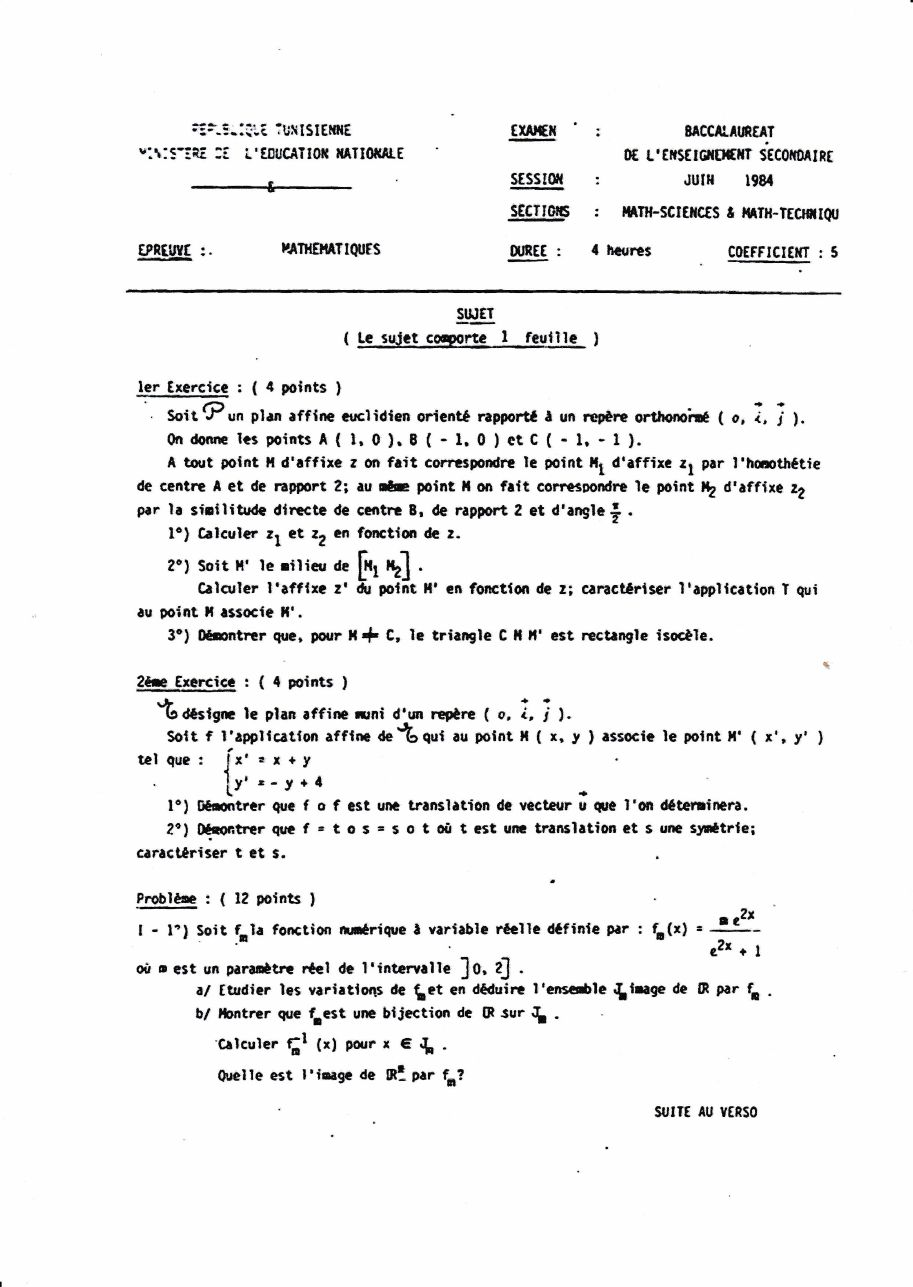
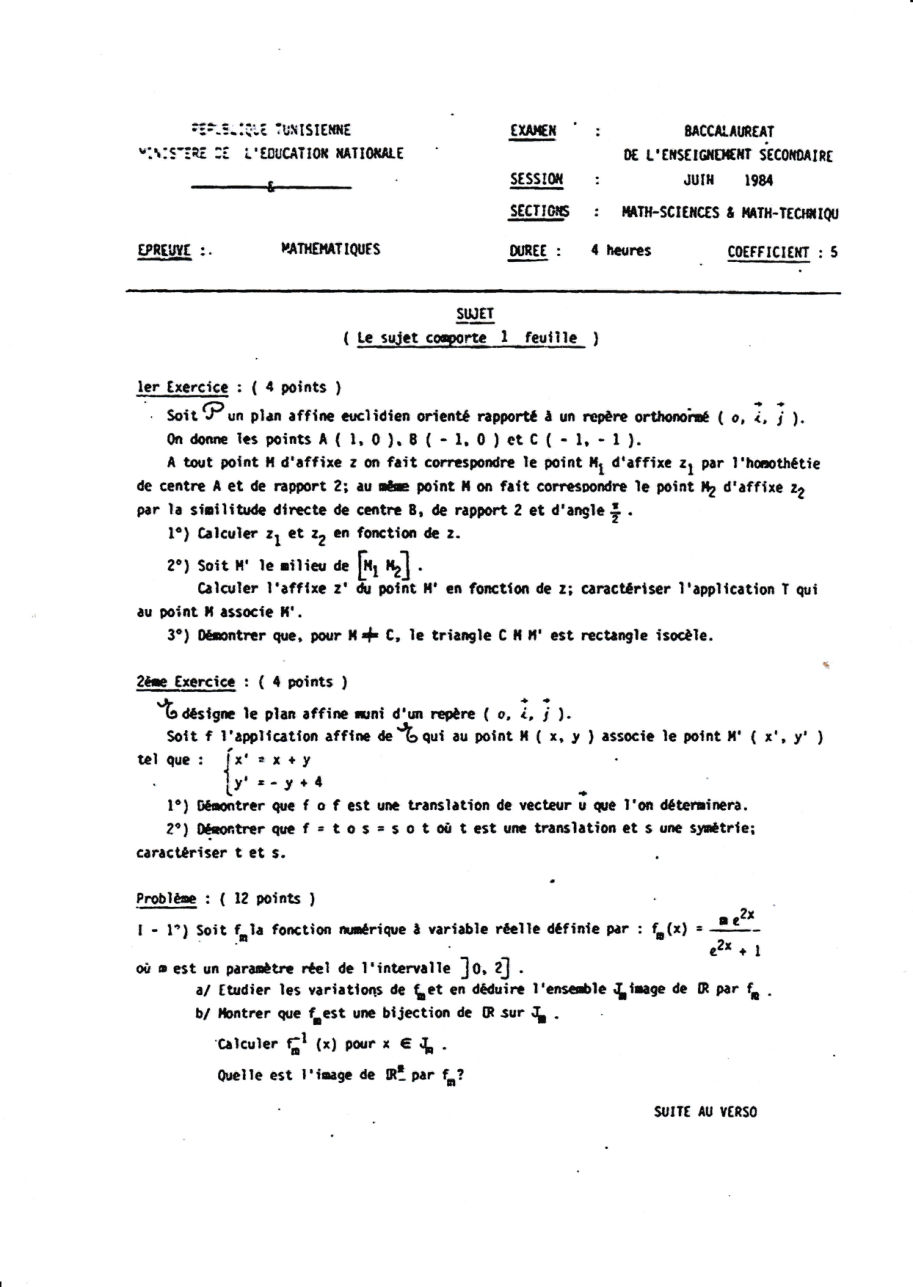
Bac: PDF preview under the download button; equal-height level/section cards
- scripts/bac_scans.py also renders axiomath.pdf to axiomath-N.png
  (re-run after recompiling); the PDF tab shows them as a preview
- Level, section and college cards fill their grid cell, counts pinned at
  the bottom, so cards in a row have the same height

Claude-Session: https://claude.ai/code/session_01MEpqFnBaPc9QdLJ8eM9S5x

diff --git a/src/app/lycee/[level]/page.tsx b/src/app/lycee/[level]/page.tsx
@@ -138,13 +138,13 @@ export default async function LyceeLevelPage({
               <Link
                 key={section}
                 href={`/lycee/${level}/${sectionSlug}`}
-                className="group relative overflow-hidden"
+                className="group relative overflow-hidden block h-full"
               >
                 {/* Gradient background on hover */}
                 <div className="absolute inset-0 bg-gradient-to-br from-accent-500/10 to-primary-500/10 dark:from-accent-500/20 dark:to-primary-500/20 opacity-0 group-hover:opacity-100 transition-opacity duration-300"></div>
                 
                 {/* Card content */}
-                <div className="relative p-8 border-2 border-gray-300 dark:border-gray-700 rounded-lg group-hover:border-accent-500 dark:group-hover:border-primary-500 group-hover:shadow-xl transition-all bg-white dark:bg-gray-800">
+                <div className="relative h-full flex flex-col [&>*:last-child]:mt-auto p-8 border-2 border-gray-300 dark:border-gray-700 rounded-lg group-hover:border-accent-500 dark:group-hover:border-primary-500 group-hover:shadow-xl transition-all bg-white dark:bg-gray-800">
                   {/* Top accent line */}
                   <div className="absolute top-0 left-0 right-0 h-1 bg-gradient-to-r from-accent-500 to-primary-500 opacity-0 group-hover:opacity-100 transition-opacity"></div>
                   
@@ -195,13 +195,13 @@ export default async function LyceeLevelPage({
               <Link
                 key={chapter}
                 href={`/lycee/${level}/toutes-sections/${chapterSlug}`}
-                className="group relative overflow-hidden"
+                className="group relative overflow-hidden block h-full"
               >
                 {/* Gradient background on hover */}
                 <div className="absolute inset-0 bg-gradient-to-br from-accent-500/10 to-primary-500/10 dark:from-accent-500/20 dark:to-primary-500/20 opacity-0 group-hover:opacity-100 transition-opacity duration-300"></div>
                 
                 {/* Card content */}
-                <div className="relative p-6 border-2 border-gray-300 dark:border-gray-700 rounded-lg group-hover:border-accent-500 dark:group-hover:border-primary-500 group-hover:shadow-xl transition-all bg-white dark:bg-gray-800">
+                <div className="relative h-full flex flex-col [&>*:last-child]:mt-auto p-6 border-2 border-gray-300 dark:border-gray-700 rounded-lg group-hover:border-accent-500 dark:group-hover:border-primary-500 group-hover:shadow-xl transition-all bg-white dark:bg-gray-800">
                   {/* Top accent line */}
                   <div className="absolute top-0 left-0 right-0 h-1 bg-gradient-to-r from-accent-500 to-primary-500 opacity-0 group-hover:opacity-100 transition-opacity"></div>
                   

diff --git a/src/lib/bac.ts b/src/lib/bac.ts
@@ -70,6 +70,7 @@ export interface BacPaper {
   blocks: BacTexBlock[];     // exercises and problem parts, read from sujet.tex
   notes?: string;
   scans: string[];           // original-1.jpg, original-2.jpg, … (pages of the original)
+  previews: string[];        // axiomath-1.png, … (pages of the AxioMath PDF, for the preview)
   files: { axiomath?: string; original?: string; tex?: string; corrige?: string };
 }
 
@@ -90,11 +91,14 @@ export function getBacPapers(): BacPaper[] {
       ? ((yaml.load(fs.readFileSync(path.join(dir, 'sujet.yaml'), 'utf8')) as Record<string, any>) ?? {})
       : {};
     const file = (name: string) => (fs.existsSync(path.join(dir, name)) ? `/bac/${id}/${name}` : undefined);
-    const scans = fs
-      .readdirSync(dir)
-      .filter(f => /^original-\d+\.(jpe?g|png|webp)$/.test(f))
-      .sort((a, b) => Number(/\d+/.exec(a)![0]) - Number(/\d+/.exec(b)![0]))
-      .map(f => `/bac/${id}/${f}`);
+    const pages = (prefix: string) =>
+      fs
+        .readdirSync(dir)
+        .filter(f => new RegExp(`^${prefix}-\\d+\\.(jpe?g|png|webp)$`).test(f))
+        .sort((a, b) => Number(/\d+/.exec(a)![0]) - Number(/\d+/.exec(b)![0]))
+        .map(f => `/bac/${id}/${f}`);
+    const scans = pages('original');
+    const previews = pages('axiomath');
     papers.push({
       id,
       year: meta.annee,
@@ -109,6 +113,7 @@ export function getBacPapers(): BacPaper[] {
       blocks,
       notes: extra.notes,
       scans,
+      previews,
       files: { axiomath: file('axiomath.pdf'), original: file('original.pdf'), tex: file('sujet.tex'), corrige: file('corrige.pdf') },
     });
   }

diff --git a/src/app/college/[level]/page.tsx b/src/app/college/[level]/page.tsx
@@ -102,13 +102,13 @@ export default async function CollegeLevelPage({
               <Link
                 key={chapter}
                 href={`/college/${level}/${chapterSlug}`}
-                className="group relative overflow-hidden"
+                className="group relative overflow-hidden block h-full"
               >
                 {/* Gradient background on hover */}
                 <div className="absolute inset-0 bg-gradient-to-br from-accent-500/10 to-primary-500/10 dark:from-accent-500/20 dark:to-primary-500/20 opacity-0 group-hover:opacity-100 transition-opacity duration-300"></div>
                 
                 {/* Card content */}
-                <div className="relative p-6 border-2 border-gray-300 dark:border-gray-700 rounded-lg group-hover:border-accent-500 dark:group-hover:border-primary-500 group-hover:shadow-xl transition-all bg-white dark:bg-gray-800">
+                <div className="relative h-full flex flex-col [&>*:last-child]:mt-auto p-6 border-2 border-gray-300 dark:border-gray-700 rounded-lg group-hover:border-accent-500 dark:group-hover:border-primary-500 group-hover:shadow-xl transition-all bg-white dark:bg-gray-800">
                   {/* Top accent line */}
                   <div className="absolute top-0 left-0 right-0 h-1 bg-gradient-to-r from-accent-500 to-primary-500 opacity-0 group-hover:opacity-100 transition-opacity"></div>
                   

diff --git a/src/app/college/page.tsx b/src/app/college/page.tsx
@@ -50,13 +50,13 @@ export default async function CollegePage() {
           <Link
             key={level}
             href={`/college/${level}`}
-            className="group relative overflow-hidden"
+            className="group relative overflow-hidden block h-full"
           >
             {/* Gradient background on hover */}
             <div className="absolute inset-0 bg-gradient-to-br from-accent-500/10 to-primary-500/10 dark:from-accent-500/20 dark:to-primary-500/20 opacity-0 group-hover:opacity-100 transition-opacity duration-300"></div>
             
             {/* Card content */}
-            <div className="relative p-8 border-2 border-gray-300 dark:border-gray-700 rounded-lg group-hover:border-accent-500 dark:group-hover:border-primary-500 group-hover:shadow-xl transition-all bg-white dark:bg-gray-800 h-full">
+            <div className="relative h-full flex flex-col [&>*:last-child]:mt-auto p-8 border-2 border-gray-300 dark:border-gray-700 rounded-lg group-hover:border-accent-500 dark:group-hover:border-primary-500 group-hover:shadow-xl transition-all bg-white dark:bg-gray-800 h-full">
               {/* Top accent line */}
               <div className="absolute top-0 left-0 right-0 h-1 bg-gradient-to-r from-accent-500 to-primary-500 opacity-0 group-hover:opacity-100 transition-opacity"></div>
               

diff --git a/src/app/lycee/[level]/[section]/page.tsx b/src/app/lycee/[level]/[section]/page.tsx
@@ -119,11 +119,11 @@ export default async function SectionPage({
               <Link
                 key={chapter}
                 href={`/lycee/${level}/${section}/${chapterSlug}`}
-                className="group relative overflow-hidden"
+                className="group relative overflow-hidden block h-full"
               >
                 <div className="absolute inset-0 bg-gradient-to-br from-accent-500/10 to-primary-500/10 dark:from-accent-500/20 dark:to-primary-500/20 opacity-0 group-hover:opacity-100 transition-opacity duration-300" />
 
-                <div className="relative p-5 sm:p-6 border-2 border-gray-300 dark:border-gray-700 rounded-lg group-hover:border-accent-500 dark:group-hover:border-primary-500 group-hover:shadow-xl transition-all bg-white dark:bg-gray-800">
+                <div className="relative h-full flex flex-col [&>*:last-child]:mt-auto p-5 sm:p-6 border-2 border-gray-300 dark:border-gray-700 rounded-lg group-hover:border-accent-500 dark:group-hover:border-primary-500 group-hover:shadow-xl transition-all bg-white dark:bg-gray-800">
                   <div className="absolute top-0 left-0 right-0 h-1 bg-gradient-to-r from-accent-500 to-primary-500 opacity-0 group-hover:opacity-100 transition-opacity" />
 
                   <div className="flex items-start justify-between mb-4">

diff --git a/src/app/bac/[id]/page.tsx b/src/app/bac/[id]/page.tsx
@@ -144,6 +144,26 @@ export default async function BacPaperPage({ params }: { params: Promise<{ id: s
           Source LaTeX (.tex, classe axiobac)
         </a>
       )}
+      {paper.previews.length > 0 && (
+        <figure className="pt-4">
+          <figcaption className="mb-3 text-sm font-bold text-gray-600 dark:text-gray-400">
+            Aperçu du PDF AxioMath ({paper.previews.length} page{paper.previews.length > 1 ? 's' : ''})
+          </figcaption>
+          <div className="space-y-4">
+            {paper.previews.map((src, i) => (
+              <a key={src} href={paper.files.axiomath} target="_blank" rel="noopener noreferrer" className="block">
+                {/* eslint-disable-next-line @next/next/no-img-element */}
+                <img
+                  src={src}
+                  alt={`PDF AxioMath du bac ${paper.year}, page ${i + 1}`}
+                  loading="lazy"
+                  className="w-full rounded-lg border border-gray-200 dark:border-gray-700 shadow-sm bg-white"
+                />
+              </a>
+            ))}
+          </div>
+        </figure>
+      )}
     </div>
   );
 

diff --git a/scripts/bac_scans.py b/scripts/bac_scans.py
@@ -1,8 +1,10 @@
 #!/usr/bin/env python3
-"""Turn the scanned original of a bac paper into page images for the "Original" tab.
+"""Page images for a bac paper: the scanned original (tab "Original") and the
+AxioMath PDF (preview in tab "PDF").
 
 Usage:  python3 scripts/bac_scans.py public/bac/1984-principale-maths [--dpi 110]
-Reads <dir>/original.pdf and writes <dir>/original-1.jpg, original-2.jpg, ...
+Reads <dir>/original.pdf  -> <dir>/original-1.jpg, original-2.jpg, ...
+      <dir>/axiomath.pdf  -> <dir>/axiomath-1.png, axiomath-2.png, ...  (re-run after recompiling)
 Needs PyMuPDF:  pip install pymupdf
 """
 import argparse
@@ -17,15 +19,24 @@ def main() -> None:
     ap.add_argument("folder", type=pathlib.Path)
     ap.add_argument("--dpi", type=int, default=110, help="110 keeps a page around 150 KB")
     args = ap.parse_args()
-    pdf = args.folder / "original.pdf"
-    if not pdf.exists():
-        sys.exit(f"{pdf} not found")
-    for old in args.folder.glob("original-*.jpg"):
+    if not (args.folder / "original.pdf").exists():
+        sys.exit(f"{args.folder / 'original.pdf'} not found")
+    render(args.folder, "original", "jpg", args.dpi)
+    if (args.folder / "axiomath.pdf").exists():
+        # crisp text on a phone, grey-scale PNG stays small
+        render(args.folder, "axiomath", "png", 100)
+
+
+def render(folder: pathlib.Path, name: str, ext: str, dpi: int) -> None:
+    for old in folder.glob(f"{name}-*.{ext}"):
         old.unlink()
-    doc = fitz.open(pdf)
-    for i, page in enumerate(doc, start=1):
-        out = args.folder / f"original-{i}.jpg"
-        page.get_pixmap(dpi=args.dpi).save(out, jpg_quality=80)
+    for i, page in enumerate(fitz.open(folder / f"{name}.pdf"), start=1):
+        out = folder / f"{name}-{i}.{ext}"
+        pix = page.get_pixmap(dpi=dpi, colorspace=fitz.csGRAY if ext == "png" else None)
+        if ext == "png":
+            pix.save(out)
+        else:
+            pix.save(out, jpg_quality=80)
         print(f"{out}  ({out.stat().st_size // 1024} KB)")
 
 
